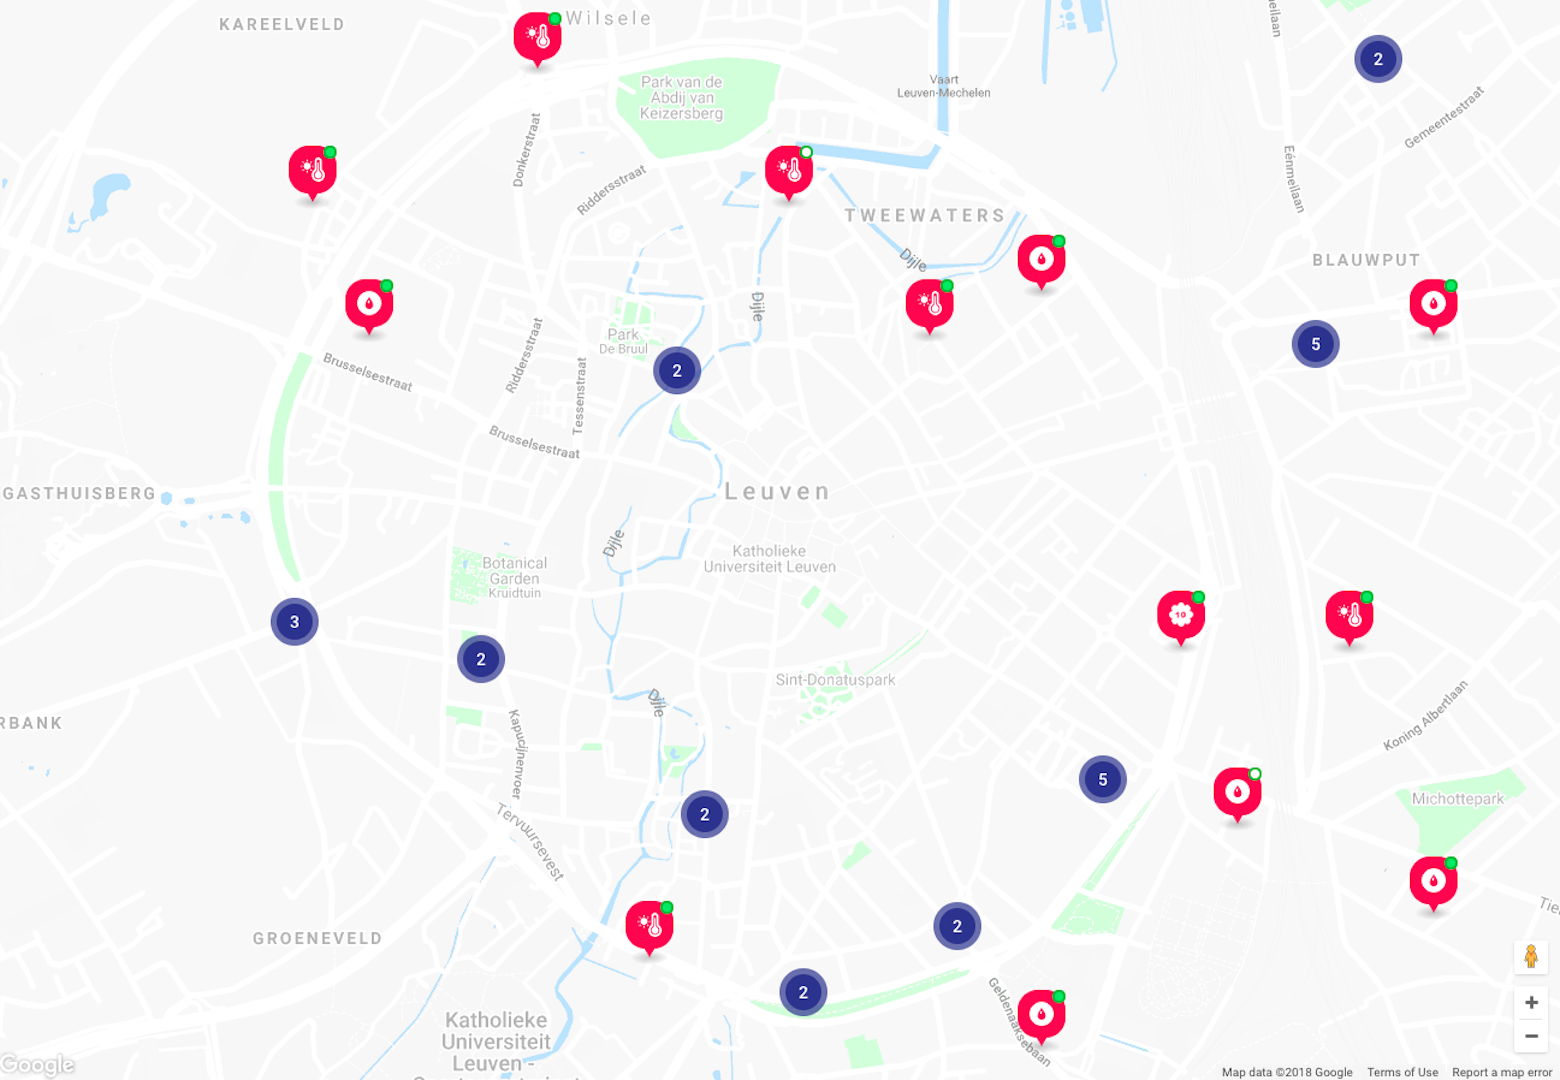
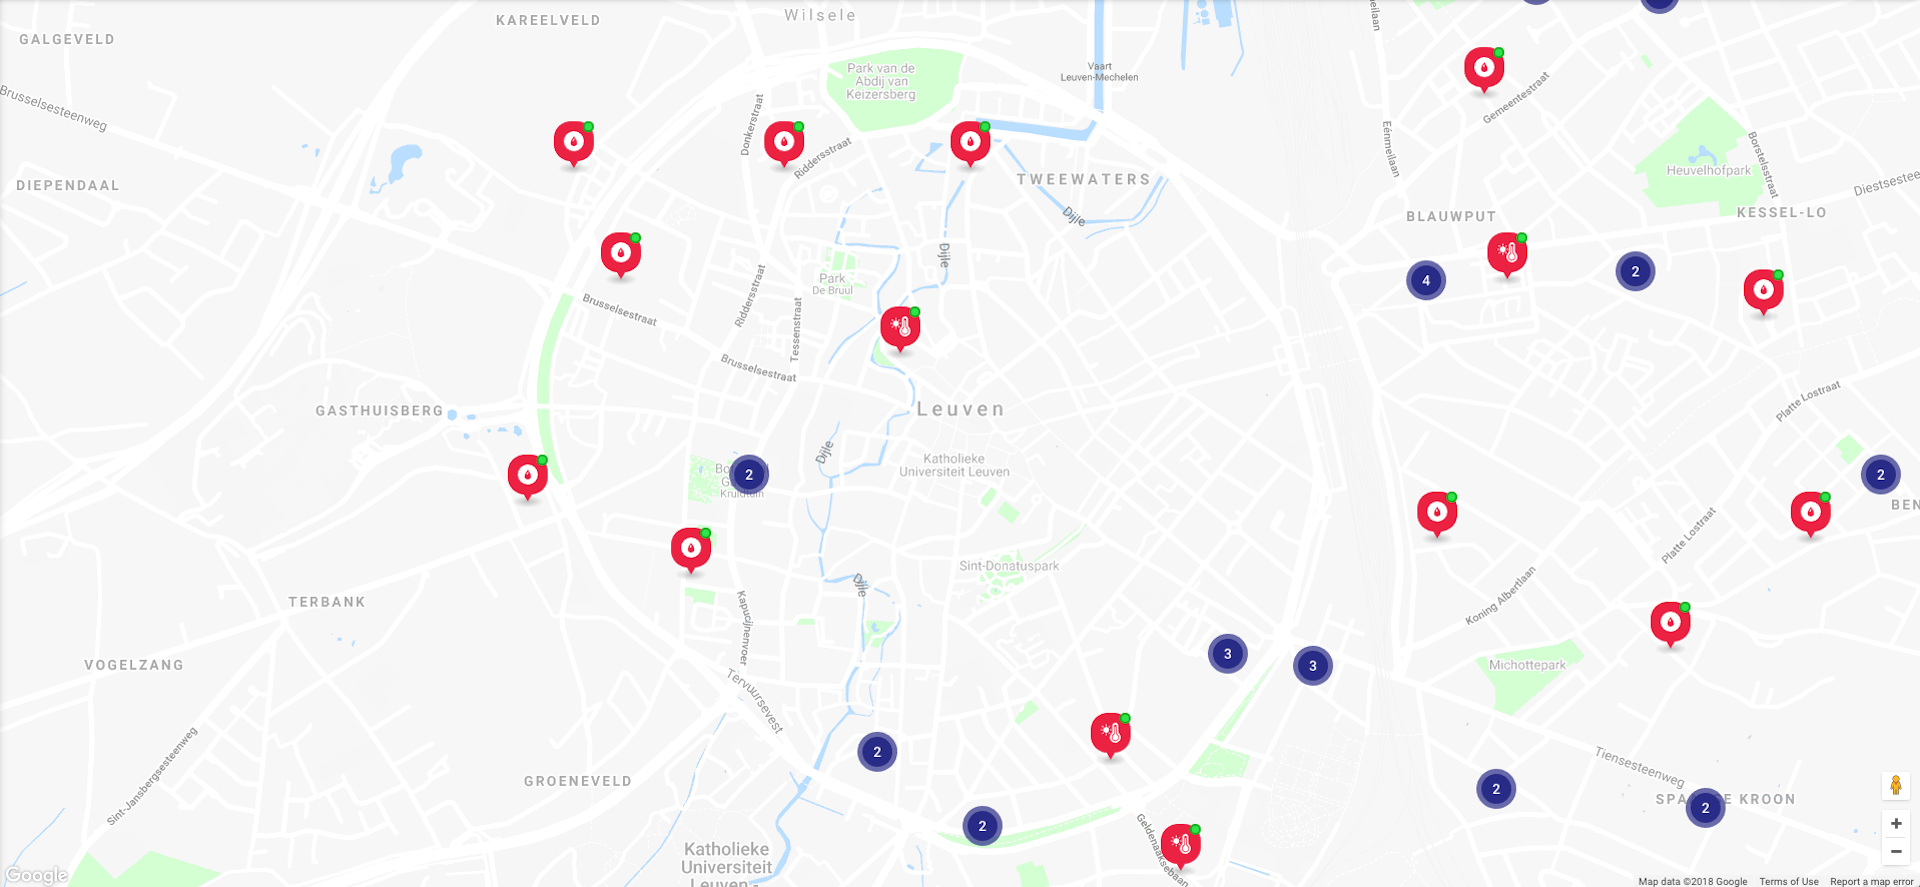
landing background changes

diff --git a/src/components/landing/LandingBackground.js b/src/components/landing/LandingBackground.js
@@ -1,6 +1,6 @@
 import React, {Component} from 'react';
 
-import Map from '../../assets/map_bg_c.jpg';
+import Map from '../../assets/map_bg_lc.jpg';
 
 export default class LandingBackground extends Component {
     render() {
